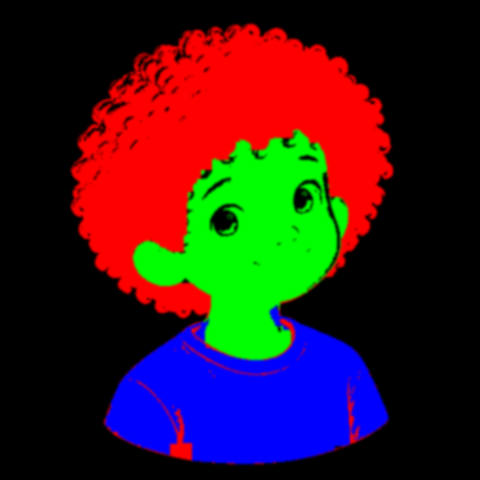
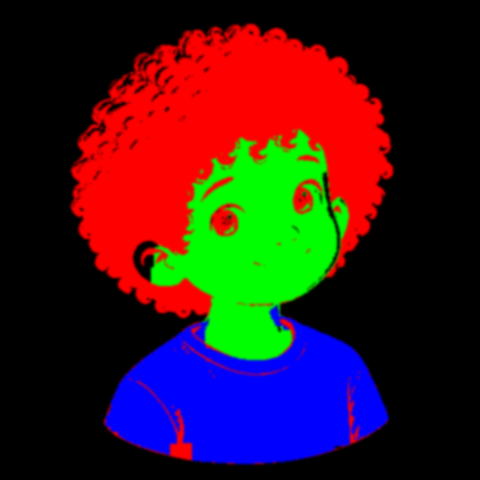
Éditeur : cheveux et yeux recolorés proprement ; reprise d'un livre sans repayer ; nom du doudou et des animaux obligatoire
Claude-Session: https://claude.ai/code/session_01GtotwTBzomeNM5Jpbpi6mC

diff --git a/static/avatar.js b/static/avatar.js
@@ -255,7 +255,7 @@
       }).filter(Boolean);
       if (targets.E && st.E && P.eyes) {
         const [hb, sb, lb] = rgb2hsl(...st.E.map(v => v / 255)), [ht, stt, lt] = rgb2hsl(...hex(targets.E));
-        zones.push({ i: 0, eye: true, dh: ht - hb, ks: stt / Math.max(sb, .05), lt: Math.min(lt, .55), lb });
+        zones.push({ i: 0, eye: true, dh: ht - hb, ks: stt / Math.max(sb, .05), lt: Math.min(lt, .55), lb, ht, st: stt });
       }
       for (let p = 0; p < px.length; p += 4) {
         if (!px[p + 3]) continue;
@@ -263,8 +263,9 @@
         for (const z of zones) {
           const w = (z.eye ? P.eyes[p] : M[p + z.i]) / 255; if (w < .01) continue;
           let [h, s, l] = rgb2hsl(r, g, b);
-          h = (h + z.dh + 1) % 1; s = Math.min(1, s * z.ks);
-          l = z.lt <= z.lb ? l * z.lt / Math.max(z.lb, 1e-3) : 1 - (1 - l) * (1 - z.lt) / Math.max(1 - z.lb, 1e-3);
+          if (z.eye) { h = z.ht; s = Math.min(1, z.st * 1.2) * Math.min(1, Math.max(0, (l - 0.06) / 0.22)); }   // iris : teinte imposée, pupille neutre
+          else { h = (h + z.dh + 1) % 1; s = Math.min(1, s * z.ks); }
+          l = z.lt <= z.lb ? l * z.lt / Math.max(z.lb, 1e-3) : Math.min(0.96, Math.max(0, Math.min(z.lt, 0.72) + (l - z.lb) * 0.8));   // éclaircir sans aplatir
           const [r2, g2, b2] = hsl2rgb(h, s, Math.max(0, Math.min(1, l)));
           r = r * (1 - w) + r2 * w; g = g * (1 - w) + g2 * w; b = b * (1 - w) + b2 * w;
         }

diff --git a/static/index.html b/static/index.html
@@ -409,6 +409,8 @@
   $('next').onclick = () => {
     $('err').textContent = '';
     if (tab === 'enfant' && !S.enfant.prenom.trim()) { $('err').textContent = "Indique le prénom de l'enfant."; return; }
+    if (tab === 'doudou' && S.doudou.actif && !(S.doudou.nom || '').trim()) { $('err').textContent = "Donne un nom au doudou : il sera un vrai personnage de l'histoire."; return; }
+    if (tab === 'animaux') { const i = S.animaux.findIndex(a => !(a.nom || '').trim()); if (i >= 0) { pet = i; render(); $('err').textContent = "Indique le nom de chaque animal."; return; } }
     if (tab === 'histoire' && S.histoire.demo) return submit();
     if (tab !== 'commande') { tab = TABS[TABS.indexOf(tab) + 1]; render(); scrollTo({ top: 0, behavior: 'smooth' }); return; }
     submit();

diff --git a/build_masks.py b/build_masks.py
@@ -73,12 +73,23 @@ def child(im):
     zone = fill_holes(largest(close(core, 15))) & A                     # tout le vêtement (ombres et étoiles comprises)
     strand = (H > 4) & (H < 31) & (S > 0.35) & (V < 0.72)               # mèches de cheveux posées sur le vêtement
     shirt = zone & ~strand
-    light_skin = A & ~shirt & warm & (S > 0.1) & (S < 0.72) & (V > 0.8)
-    # zone du visage/cou : peau claire refermée, trous (yeux, bouche, sourcils) bouchés
-    face = fill_holes(largest(close(light_skin, 13))) & A & ~shirt
-    feat = face & (V < 0.5)                                   # yeux, sourcils, traits : on n'y touche pas
-    skin = face & ~feat & warm & (S > 0.08)
-    hair = A & ~shirt & ~face & (((H > 4) & (H < 46)) | (V < 0.35)) & (S > 0.22) & (V < 0.9)
+    # visage : peau claire franche, refermée avec un petit rayon (pour ne pas engloutir les mèches voisines)
+    strict = A & ~shirt & warm & (S > 0.1) & (S < 0.62) & (V > 0.86)
+    core = fill_holes(largest(close(strict, 5))) & A & ~shirt
+    near = Image.fromarray((core * 255).astype(np.uint8))
+    for _ in range(3): near = near.filter(ImageFilter.MaxFilter(9))
+    near = np.asarray(near) > 127
+    cand = A & ~shirt & warm & (V > 0.74) & (S < 0.82)                # peau dans l'ombre (joues, oreilles, cou)
+    skinreg = (core | (near & cand)) & A & ~shirt
+    xx = np.mgrid[0:SIZE, 0:SIZE][1] / SIZE
+    neck = cand & (yy > 0.55) & (xx > 0.35) & (xx < 0.68)
+    for c in components(neck):
+        if c[0] > 300: skinreg[c[3][:, 0], c[3][:, 1]] = True
+    face = fill_holes(skinreg) & A & ~shirt
+    feat = face & ~skinreg & (V < 0.6)                                 # yeux, sourcils, bouche : on n'y touche pas
+    skin = skinreg & warm & (S > 0.08) & (V > 0.6)
+    hairlike = (((H > 4) & (H < 46)) | (V < 0.35)) & (S > 0.2) & (V < 0.9)
+    hair = A & ~shirt & ~skin & ~feat & hairlike
     return {"R": hair, "G": skin, "B": shirt, "_feat": feat, "_face": face}
 
 
@@ -118,8 +129,9 @@ def find_eyes(z, im):
         pts = c[3]; r = max(pts[:, 1].max() - pts[:, 1].min(), pts[:, 0].max() - pts[:, 0].min()) / 2 + 2
         eyes.append([round(float(c[1]), 1), round(float(c[2]), 1), round(float(r), 1)])
         yy, xx = np.mgrid[0:SIZE, 0:SIZE]
-        disk = (xx - c[1]) ** 2 + (yy - c[2]) ** 2 <= (r * 1.05) ** 2
-        iris |= disk & (V > 0.12) & (S > 0.25) & ~((V > 0.85) & (S < 0.2))   # iris coloré (ni pupille noire, ni reflet blanc)
+        disk = (xx - c[1]) ** 2 + (yy - c[2]) ** 2 <= (r * 0.82) ** 2
+        # iris seulement : ni la pupille noire, ni les reflets, ni les cils et paupières (sombres et peu saturés)
+        iris |= disk & (V > 0.08) & ~((V > 0.6) & (S < 0.3))       # ni la pupille, ni le blanc de l'œil, ni les reflets
     return eyes, iris
 
 

diff --git a/app.py b/app.py
@@ -137,12 +137,21 @@ def run(job_id, form, refs):
             images += images[1:]                        # démo : 18 pages à partir des 9 illustrations de Léo
             board = None
         else:
-            cfg = generator.build_config(form); save("config.json", cfg)
-            progress("Écriture et relecture de l'histoire", 3)
-            story = generator.write_story(cfg, form); save("histoire.json", story)
-            progress("Storyboard des 18 pages", 7)
-            board = generator.make_storyboard(story); save("storyboard.json", board)
-            save("histoire.json", story)                 # le storyboard peut déclarer un personnage oublié (ex. une créature)
+            cfg = generator.build_config(form)
+            old = lambda n: json.loads((folder / n).read_text(encoding="utf-8")) if (folder / n).exists() else None
+            reprise = job.get("_reprise") and old("config.json") == cfg and old("histoire.json") and old("storyboard.json")
+            if reprise:                                   # reprise après coupure : histoire et storyboard déjà payés
+                story, board = old("histoire.json"), old("storyboard.json")
+                generator.REUSE.add(str(folder))
+            else:
+                generator.REUSE.discard(str(folder))
+                for f in folder.glob("image_*.png"): f.unlink()
+                save("config.json", cfg)
+                progress("Écriture et relecture de l'histoire", 3)
+                story = generator.write_story(cfg, form); save("histoire.json", story)
+                progress("Storyboard des 18 pages", 7)
+                board = generator.make_storyboard(story); save("storyboard.json", board)
+                save("histoire.json", story)             # le storyboard peut déclarer un personnage oublié (ex. une créature)
 
             # portraits de référence, un par personnage, validés par le parent (redessin personnage par personnage)
             variants, portraits = {}, {}
@@ -227,10 +236,10 @@ def parse_book(data):
     return form, None
 
 
-def start_job(job_id, form, refs, auto=False, on_end=None):
-    """Lance la fabrication d'un livre dans un fil séparé."""
+def start_job(job_id, form, refs, auto=False, on_end=None, reprise=False):
+    """Lance la fabrication d'un livre dans un fil séparé (reprise=True : réutilise ce qui est déjà fait dans le dossier)."""
     (OUT / job_id).mkdir(exist_ok=True)
-    JOBS[job_id] = {"etat": "en_cours", "etape": "Démarrage", "progression": 1, "_auto": auto}
+    JOBS[job_id] = {"etat": "en_cours", "etape": "Démarrage", "progression": 1, "_auto": auto, "_reprise": reprise}
 
     def work():
         run(job_id, form, refs)

diff --git a/generator.py b/generator.py
@@ -620,6 +620,13 @@ def _save(resp, path):
     return Path(path)
 
 
+REUSE = set()   # dossiers de livres repris après une coupure : les images déjà faites ne sont pas redessinées
+
+
+def _reused(path):
+    return str(Path(path).parent) in REUSE and Path(path).exists()
+
+
 def _edit(prompt, refs, path, size="1024x1024", quality=None):
     refs = [Path(r) for r in refs]
     missing = [str(r) for r in refs if not r.exists()]
@@ -658,6 +665,8 @@ def ref_files(ids, portraits, style=True):
 def draw_cover(board, story, portraits, folder):
     ids = [x for x in board["couverture"]["personnages"] if x in portraits]
     board["couverture"]["personnages"] = ids
+    if _reused(Path(folder) / "image_00.png"):
+        return Path(folder) / "image_00.png"
     return _edit(cover_prompt(board, story), ref_files(ids, portraits), Path(folder) / "image_00.png")
 
 
@@ -668,6 +677,9 @@ def draw_scenes(board, story, portraits, folder, pages, progress, check=True):
         p = board["pages"][i]
         p["personnages"] = [x for x in p["personnages"] if x in portraits]
         path = Path(folder) / f"image_{i + 1:02d}.png"
+        if _reused(path):                                  # reprise : page déjà dessinée (et payée)
+            done[0] += 1; progress(f"Illustrations {done[0]}/{len(pages)}")
+            return path
         _edit(scene_prompt(p, story), ref_files(p["personnages"], portraits, style=False), path, quality=SCENE_QUALITY)
         verdict = review_scene(path, p, story) if check else {"ok": True}
         tries = 0
@@ -853,7 +865,7 @@ def recolor_model(kind, cfg):
             ht, stt, lt = [float(v) for v in _rgb2hsl(*[np.array(v) for v in _hex(t[k])])]
             h, s, l = _rgb2hsl(r, g, b)
             h = (h + ht - hb + 1) % 1; s = np.minimum(1, s * stt / max(sb, .05))
-            l = l * lt / max(lb, 1e-3) if lt <= lb else 1 - (1 - l) * (1 - lt) / max(1 - lb, 1e-3)
+            l = l * lt / max(lb, 1e-3) if lt <= lb else np.clip(min(lt, 0.72) + (l - lb) * 0.8, 0, 0.96)   # éclaircir sans aplatir les mèches
             r2, g2, b2 = _hsl2rgb(h, s, np.clip(l, 0, 1))
             w = mask[..., i]
             r, g, b = r * (1 - w) + r2 * w, g * (1 - w) + g2 * w, b * (1 - w) + b2 * w

diff --git a/boutique.py b/boutique.py
@@ -34,7 +34,7 @@ def _resume():
         if o["statut"] in ("payee", "generation") and not A.JOBS.get(o["job_id"] or ""):
             log(f"commande {o['id']} : fabrication interrompue, relance")
             try:
-                start_book(o["id"], auto=True)
+                start_book(o["id"], auto=True, reprise=True)   # reprend là où elle s'était arrêtée (rien n'est payé deux fois)
             except Exception:
                 traceback.print_exc()
 
@@ -131,7 +131,7 @@ def confirm_paid(oid, stripe_sub=None):
     return True
 
 
-def start_book(oid, auto=False):
+def start_book(oid, auto=False, reprise=False):
     o = db.get(oid)
     form, refs = load_book(o["origine"])
     if o["origine"] != oid:                       # livre du mois suivant : nouveau thème, nouvel univers
@@ -143,10 +143,12 @@ def start_book(oid, auto=False):
         form = dict(form, numero=f"{o['numero']:02d}")
     job_id = oid
     folder = A.OUT / job_id
-    shutil.rmtree(folder, ignore_errors=True); folder.mkdir(parents=True)
+    if not reprise:
+        shutil.rmtree(folder, ignore_errors=True)
+    folder.mkdir(parents=True, exist_ok=True)
     (folder / ".commande").write_text(oid)
     db.update(oid, statut="generation", job_id=job_id, erreur=None)
-    A.start_job(job_id, form, refs, auto=auto, on_end=lambda j, job: book_done(oid, job))
+    A.start_job(job_id, form, refs, auto=auto, on_end=lambda j, job: book_done(oid, job), reprise=reprise)
 
 
 def book_done(oid, job):
@@ -414,7 +416,8 @@ def admin_action(oid, action):
                 raise RuntimeError("seulement avant l'envoi à l'impression")
             if A.JOBS.get(o["job_id"] or "", {}).get("etat") in ("en_cours", "validation"):
                 raise RuntimeError("fabrication en cours : attends la fin avant de relancer")
-            start_book(oid, auto=True)
+            # en erreur ou bloquée : on reprend là où elle s'est arrêtée ; « Refaire le livre » (à relire) repart de zéro
+            start_book(oid, auto=True, reprise=o["statut"] != "a_verifier")
             return jsonify(ok=True)
         if action == "valider-paiement-test" and not paiement.configured():
             confirm_paid(oid)
